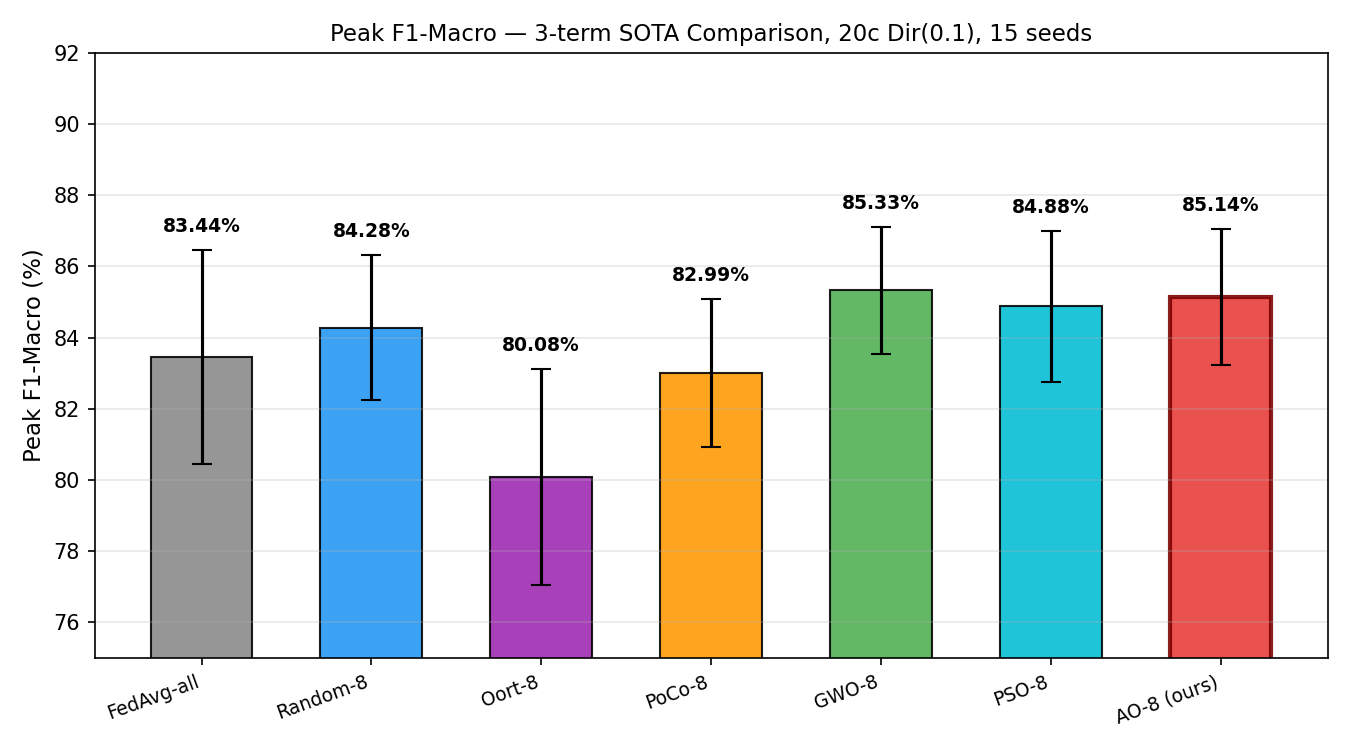
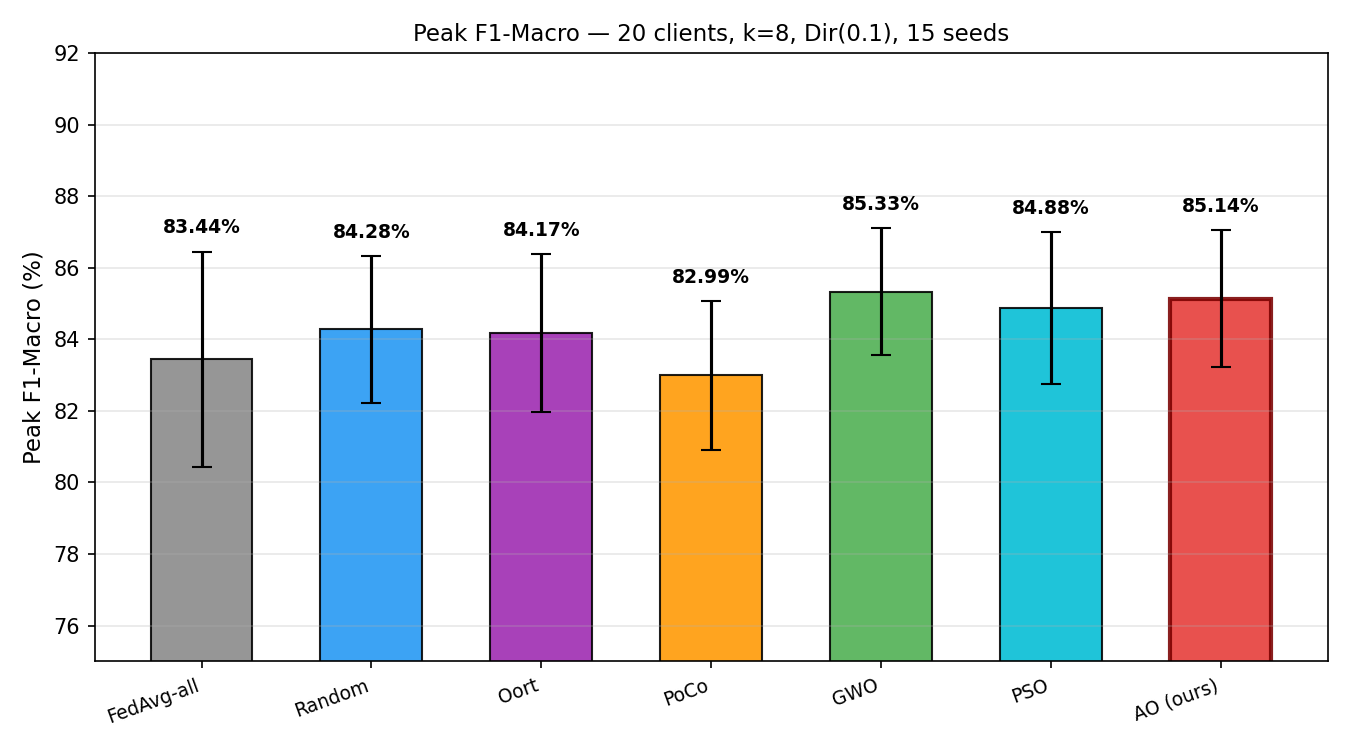
Address reviewer gap-claim, fix figure/text inconsistencies (pre-submission)
Related work & gap claim (§II):
- Add FedCSGA, FedGenBlk (GA-based, per-client additive fitness) to §II-C and Table I
- Add DPP/Zhang et al. ICASSP 2023 (collective set-function, no metaheuristic) to §II-B and Table I
- Rename Table I columns: Scoring Level→Fitness Type, SI Optimizer→Metaheuristic
- Rewrite §II-D gap claim: prior metaheuristic methods use additive per-client F(S);
  prior collective methods lack metaheuristic search; we are first to combine both
- Soften 'equivalent to greedy top-k' → 'in the unconstrained setting studied here'
- Name all three FedGenBlk terms (accuracy, gradient deviation, blockchain credibility)
- Add bib entries: wu2025fedcsga, panimalar2026fedgenblk, zhang2023dpp

Text inconsistencies fixed:
- Table III: PSO→GWO as smallest gap, 10.41→10.34pp, range 10.4→10.3
- §III-B: Section V-G → Section V-F (ablation cross-reference)
- §V-A: GWO k-sensitivity reconciliation (15-seed vs independent 5-seed set)
- §V-F: add sentence connecting Greedy-8 collapse to collective fitness argument
- Contributions: k∈{4,...,12} → k∈{6,...,12} (k=4 has 1 failure in sweep)
- Remove orphaned Dwork 2006 bib entry

Figure regenerated:
- bar_peak_f1.png: Oort 80.08%→84.17% (from oort_proper/), PoCo 82.99%
  using correct authoritative results directories per method

diff --git a/regen_bar_peak_f1.py b/regen_bar_peak_f1.py
@@ -1,0 +1,103 @@
+"""
+Regenerate bar_peak_f1.png for the paper using authoritative results directories.
+
+Method → directory mapping:
+  FedAvg-all, Random  → results/sota_comparison/
+  Oort                → results/oort_proper/
+  PoCo                → results/poco_proper/
+  GWO, PSO, AO        → results/sota_3term/
+
+Output: paper/figures/bar_peak_f1.png  (overwrites stale version)
+"""
+
+import os, csv, shutil
+import numpy as np
+import matplotlib
+matplotlib.use('Agg')
+import matplotlib.pyplot as plt
+
+BASE = r'C:\Users\Dspike\Documents\FL-AdroidMaLD'
+SEEDS = [1, 2, 3, 4, 5, 6, 7, 8, 9, 10, 42, 123, 456, 789, 2024]
+
+# (method_key, results_subdir, csv_prefix)
+METHOD_CONF = [
+    ('fedavg_all', 'sota_comparison/fedavg_all', 'fedavg_all'),
+    ('random8',    'sota_comparison/random8',    'random8'),
+    ('oort8',      'oort_proper',                'oort8'),
+    ('poco8',      'sota_comparison/poco8',       'poco8'),
+    ('gwo8',       'sota_3term/gwo8',            'gwo8'),
+    ('pso8',       'sota_3term/pso8',            'pso8'),
+    ('aoa8',       'sota_3term/aoa8',            'aoa8'),
+]
+
+LABELS = {
+    'fedavg_all': 'FedAvg-all', 'random8': 'Random',
+    'oort8': 'Oort',            'poco8': 'PoCo',
+    'gwo8': 'GWO',              'pso8': 'PSO',
+    'aoa8': 'AO (ours)',
+}
+COLORS = {
+    'fedavg_all': '#888888', 'random8': '#2196F3', 'oort8': '#9C27B0',
+    'poco8': '#FF9800',      'gwo8': '#4CAF50',    'pso8': '#00BCD4',
+    'aoa8': '#E53935',
+}
+
+
+def load_peak_f1(results_subdir, csv_prefix, seeds):
+    bests = []
+    for s in seeds:
+        p = os.path.join(BASE, 'results', results_subdir,
+                         f'seed{s}', f'{csv_prefix}_seed{s}_rounds.csv')
+        if not os.path.exists(p):
+            print(f'  [missing] {p}')
+            continue
+        with open(p) as f:
+            vals = [float(r['f1_macro']) for r in csv.DictReader(f)]
+        bests.append(max(vals) * 100)
+    return np.array(bests)
+
+
+print('Loading per-method peak F1 ...')
+f1_data = {}
+for key, subdir, prefix in METHOD_CONF:
+    arr = load_peak_f1(subdir, prefix, SEEDS)
+    f1_data[key] = arr
+    n = len(arr)
+    print(f'  {key:<12}  n={n}  mean={arr.mean():.2f}%  std={arr.std():.2f}%')
+
+# ── Bar chart ─────────────────────────────────────────────────────────────────
+methods = [k for k, _, _ in METHOD_CONF]
+fig, ax = plt.subplots(figsize=(9, 5))
+
+for i, key in enumerate(methods):
+    f1 = f1_data[key]
+    if len(f1) == 0:
+        continue
+    edge = 'black' if key != 'aoa8' else '#7a0000'
+    lw   = 1       if key != 'aoa8' else 2
+    ax.bar(i, f1.mean(), yerr=f1.std(), color=COLORS[key], capsize=5,
+           width=0.6, label=LABELS[key], alpha=0.88, edgecolor=edge, linewidth=lw)
+    ax.text(i, f1.mean() + f1.std() + 0.4,
+            f'{f1.mean():.2f}%', ha='center', va='bottom',
+            fontsize=9, fontweight='bold')
+
+ax.set_xticks(range(len(methods)))
+ax.set_xticklabels([LABELS[k] for k in methods], fontsize=9, rotation=20, ha='right')
+ax.set_ylabel('Peak F1-Macro (%)', fontsize=11)
+ax.set_title('Peak F1-Macro — 20 clients, k=8, Dir(0.1), 15 seeds', fontsize=11)
+ax.set_ylim(75, 92)
+ax.grid(True, axis='y', alpha=0.3)
+plt.tight_layout()
+
+# Save to plots/sota_3term/ and copy to paper/figures/
+out_dir = os.path.join(BASE, 'plots', 'sota_3term')
+os.makedirs(out_dir, exist_ok=True)
+out_plot = os.path.join(out_dir, 'bar_peak_f1.png')
+plt.savefig(out_plot, dpi=150)
+plt.close()
+print(f'\nSaved: {out_plot}')
+
+fig_dst = os.path.join(BASE, 'paper', 'figures', 'bar_peak_f1.png')
+shutil.copy2(out_plot, fig_dst)
+print(f'Copied to: {fig_dst}')
+print('\nDone — recompile main.tex to pick up the updated figure.')

diff --git a/paper/main.tex b/paper/main.tex
@@ -50,7 +50,7 @@ Our contributions are:
 \setlength{\itemsep}{0pt}\setlength{\parskip}{0pt}
 \item A subset-level combinatorial fitness function capturing collective divergence, class coverage, and pairwise diversity, achieving zero convergence failures across 15 seeds; ablation suggests divergence as the likely primary contributing term (non-significant at $n=15$).
 \item Validation across three metaheuristic instantiations (AO, GWO, PSO) of the identical fitness function, isolating the formulation rather than the optimizer as the source of improvement.
-\item Statistically significant convergence improvements over Oort and PoCo across 15 seeds (paired Wilcoxon, $p<0.05$); AO's zero-failure reliability is sustained across $k\in\{4,\dots,12\}$, with significant improvement over Oort at $k=12$ ($p=0.031$).
+\item Statistically significant convergence improvements over Oort and PoCo across 15 seeds (paired Wilcoxon, $p<0.05$); AO's zero-failure reliability is sustained across $k\in\{6,\dots,12\}$, with significant improvement over Oort at $k=12$ ($p=0.031$).
 \end{itemize}
 \vspace{-4pt}
 
@@ -62,13 +62,13 @@ Android malware detection has been studied through static, dynamic, and hybrid a
 Fang et al.\ \cite{fang2023fedriod} proposed FEDroid, integrating genetic-algorithm-based malware variant augmentation with a residual-network classifier under FL \cite{mcmahan2017}, reporting 98.53\% weighted F1 in cross-dataset evaluation. However, FEDroid assumes IID client data (noted as a limitation by the authors) and treats detection as binary classification with only 3--7 clients. The present work instead evaluates under severe Dir(0.1) non-IID partitioning across 20 clients with 12 distinct malware families.
 
 \subsection{Client Selection in Federated Learning}
-Several methods address the client-selection problem in FL \cite{li2024survey}. Oort \cite{lai2021oort} combines statistical and system utility into a per-client scalar score. Power-of-Choice \cite{cho2022poco} biases selection toward higher-loss clients sampled from a candidate pool. Both are per-client scoring approaches. DivFL \cite{balakrishnan2022divfl} instead selects diverse client subsets via submodular maximization, targeting collective subset properties rather than individual utility. FedDiverse \cite{nemeth2025feddiverse} similarly selects subsets with complementary heterogeneity profiles; clients share a compact three-scalar heterogeneity triplet (class-imbalance, attribute-imbalance, and spurious-correlation scores), and it has been validated on computer-vision benchmarks only. FedCor \cite{tang2022fedcor} models inter-client loss correlations via a Gaussian Process, while FAVOR \cite{wang2020favor} trains a deep Q-network to counteract non-IID skew.
+Several methods address the client-selection problem in FL \cite{li2024survey}. Oort \cite{lai2021oort} combines statistical and system utility into a per-client scalar score. Power-of-Choice \cite{cho2022poco} biases selection toward higher-loss clients sampled from a candidate pool. Both are per-client scoring approaches. DivFL \cite{balakrishnan2022divfl} instead selects diverse client subsets via submodular maximization, targeting collective subset properties rather than individual utility. FedDiverse \cite{nemeth2025feddiverse} similarly selects subsets with complementary heterogeneity profiles; clients share a compact three-scalar heterogeneity triplet (class-imbalance, attribute-imbalance, and spurious-correlation scores), and it has been validated on computer-vision benchmarks only. FedCor \cite{tang2022fedcor} models inter-client loss correlations via a Gaussian Process, while FAVOR \cite{wang2020favor} trains a deep Q-network to counteract non-IID skew. Zhang et al.\ \cite{zhang2023dpp} apply determinantal point process (DPP) sampling to FL client selection, choosing subsets with probability proportional to $\det(L_S)$, a collective set-function that implicitly penalizes redundant clients; this approach targets computer-vision benchmarks and does not employ metaheuristic search.
 
 \subsection{Metaheuristic Optimization in Federated Learning}
-Metaheuristic algorithms have been applied to FL primarily for hyperparameter and model-weight optimization rather than client selection. Qolomany et al.\ \cite{qolomany2020psofl} applied PSO to optimize local-model hyperparameters in an FL setting for smart-city and IoT services. More recently, Yamany et al.\ \cite{yamany2024gwofl} proposed GWOFL, employing Grey Wolf Optimization to generate personalized initial local models for each client, thereby improving robustness against data-poisoning adversarial attacks under non-IID conditions. Critically, both works apply swarm-intelligence optimization \emph{within} the local training or aggregation pipeline, not to the problem of \emph{which clients to select} each round. Two more recent works do target the client-selection step with SI: Khan and Goodridge \cite{khan2024swarm} evaluate nine SI algorithms for FL client selection in cybersecurity scenarios, while Ben Driss et al.\ \cite{bendriss2024gwo} apply GWO to multi-attribute client selection in over-the-air (OTA) FL, balancing accuracy, energy, delay, and fairness. However, both score \emph{individual} clients on a weighted utility function and select the top-$k$, an architecture equivalent to Oort that does not model collective subset properties such as class-distribution coverage or inter-client diversity.
+Metaheuristic algorithms have been applied to FL primarily for hyperparameter and model-weight optimization rather than client selection. Qolomany et al.\ \cite{qolomany2020psofl} applied PSO to optimize local-model hyperparameters in an FL setting for smart-city and IoT services. More recently, Yamany et al.\ \cite{yamany2024gwofl} proposed GWOFL, employing Grey Wolf Optimization to generate personalized initial local models for each client, thereby improving robustness against data-poisoning adversarial attacks under non-IID conditions. Critically, both works apply swarm-intelligence optimization \emph{within} the local training or aggregation pipeline, not to the problem of \emph{which clients to select} each round. Two more recent works do target the client-selection step with SI: Khan and Goodridge \cite{khan2024swarm} evaluate nine SI algorithms for FL client selection in cybersecurity scenarios, while Ben Driss et al.\ \cite{bendriss2024gwo} apply GWO to multi-attribute client selection in over-the-air (OTA) FL, balancing accuracy, energy, delay, and fairness. However, both score \emph{individual} clients on a weighted utility function and select the top-$k$, an architecture equivalent to Oort that does not model collective subset properties such as class-distribution coverage or inter-client diversity. FedCSGA \cite{wu2025fedcsga} and FedGenBlk \cite{panimalar2026fedgenblk} apply GAs to client selection but optimize objectives that decompose additively across clients---a deadline-constrained accuracy sum for FedCSGA, and a per-client composite of accuracy, gradient deviation, and blockchain-verified credibility for FedGenBlk---and therefore capture no inter-client statistical structure such as class coverage or pairwise distribution distances.
 
 \subsection{Research Gap}
-As Table~\ref{tab:relwork} shows, existing methods either score clients individually (Oort, PoCo, Khan \& Goodridge, Ben Driss et al.)\ or perform subset-level selection without a swarm-intelligence solver (DivFL, FedDiverse); statistical significance testing is absent throughout. This work addresses both gaps by coupling combinatorial subset selection with a metaheuristic optimizer and evaluating on a fine-grained, non-IID Android malware classification task.
+As Table~\ref{tab:relwork} shows, prior metaheuristic client-selection methods---Khan \& Goodridge, Ben Driss et al., FedCSGA, and FedGenBlk---optimize \emph{additive per-client} fitness functions $F(S)=\sum_{i\in S}f(i)$, evaluated independently per client; such functions offer no structural advantage over greedy top-$k$ in the unconstrained setting studied here, and do not capture collective subset properties such as class-distribution coverage or inter-client diversity. Prior collective subset-selection methods---DivFL, DPP, and FedDiverse---use set-functions capturing inter-client interactions but do not employ metaheuristic search and have not been evaluated on malware classification. This work is the first to couple a collective subset fitness---explicitly including the irreducibly set-level class-coverage term $\text{cov}(S)$ and pairwise distribution distances $\text{div}_{pair}(S)$---with metaheuristic search on a 12-class malware task, evaluated across 15 independent seeds with rigorous statistical testing.
 
 \begin{table}[t]
 \centering
@@ -78,14 +78,16 @@ As Table~\ref{tab:relwork} shows, existing methods either score clients individu
 \setlength{\tabcolsep}{2.5pt}
 \begin{tabular}{lcccc c}
 \toprule
-Method & \makecell{Scoring\\Level} & \makecell{SI\\Optimizer} & Domain & \makecell{Real\\Data} & \makecell{Statistical\\Testing} \\
+Method & \makecell{Fitness\\Type} & \makecell{Meta-\\heuristic} & Domain & \makecell{Real\\Data} & \makecell{Stat.\\Testing} \\
 \midrule
-Oort \cite{lai2021oort}, PoCo \cite{cho2022poco} & Per-client & \texttimes & Vision/NLP    & \checkmark & \texttimes \\
-DivFL \cite{balakrishnan2022divfl}               & Subset     & \texttimes & Vision/NLP    & \checkmark & \texttimes \\
-Khan \& Goodridge \cite{khan2024swarm}           & Per-client & \checkmark & Security      & \texttimes & \texttimes \\
-Ben Driss \emph{et al.} \cite{bendriss2024gwo}  & Per-client & \checkmark & Wireless      & \checkmark & \texttimes \\
-FedDiverse \cite{nemeth2025feddiverse}           & Subset     & \texttimes & Vision        & \checkmark & \texttimes \\
-\textbf{Ours}                                    & \textbf{Subset} & \checkmark & \textbf{Malware} & \checkmark & \checkmark \\
+Oort \cite{lai2021oort}, PoCo \cite{cho2022poco}            & Per-client  & \texttimes & Vision/NLP    & \checkmark & \texttimes \\
+DivFL \cite{balakrishnan2022divfl}                           & Collective  & \texttimes & Vision/NLP    & \checkmark & \texttimes \\
+DPP \cite{zhang2023dpp}                                      & Collective  & \texttimes & Vision        & \checkmark & \texttimes \\
+FedDiverse \cite{nemeth2025feddiverse}                       & Collective  & \texttimes & Vision        & \checkmark & \texttimes \\
+Khan \& Goodridge \cite{khan2024swarm}                       & Per-client  & \checkmark & Security      & \texttimes & \texttimes \\
+Ben Driss \emph{et al.} \cite{bendriss2024gwo}              & Per-client  & \checkmark & Wireless      & \checkmark & \texttimes \\
+\makecell[l]{FedCSGA \cite{wu2025fedcsga},\\FedGenBlk \cite{panimalar2026fedgenblk}} & Per-client & \checkmark & Cloud/IoT & \checkmark & \texttimes \\
+\textbf{Ours}                                                & \textbf{Collective} & \checkmark & \textbf{Malware} & \checkmark & \checkmark \\
 \bottomrule
 \end{tabular}
 \end{table}
@@ -109,7 +111,7 @@ where the three terms are defined as follows. Let $w_i^{(t-1)}$ denote client $i
 \text{cov}(S) &= \frac{1}{C}\left|\bigcup_{i \in S} \mathcal{C}_i\right|, \quad \mathcal{C}_i = \{c : p_{i,c} > 0\} \\
 \text{div}_{pair}(S) &= \frac{2}{|S|(|S|-1)}\sum_{\substack{i,j \in S \\ i < j}} \|\mathbf{p}_i - \mathbf{p}_j\|_1
 \end{align*}
-where $C=12$ is the number of classes, $\mathcal{C}_i$ is the set of classes present in client $i$'s local data, $p_{i,c}$ is client $i$'s fraction of samples from class $c$, and $\mathbf{p}_i \in \mathbb{R}^C$ is client $i$'s class-proportion vector. $\text{div}(S)$ rewards subsets that collectively diverge from the global model, ensuring informative updates; $\text{cov}(S)$ rewards subsets that collectively cover all $C$ malware classes; $\text{div}_{pair}(S)$ rewards subsets whose members have dissimilar local class distributions, discouraging redundant clients. Prior to computing $F(S)$, $\text{div}(S)$ and $\text{cov}(S)$ are independently min-max normalized to $[0,1]$ across all $n$ clients. We use $\alpha=0.3$, $\beta=0.3$, and $\lambda=0.2$ (note: $\text{div}_{pair}(S)\in[0,2]$ while the other terms are in $[0,1]$, so the effective contribution of $\lambda$ can reach $0.4$); these values were fixed prior to the comparative evaluation reported in Section~V. Section~V-G presents an ablation study suggesting that the divergence term is the primary contributor to performance. The cov$(S)$ and div$_{pair}(S)$ terms use per-client class-proportion vectors $\mathbf{p}_i$ transmitted alongside model updates.
+where $C=12$ is the number of classes, $\mathcal{C}_i$ is the set of classes present in client $i$'s local data, $p_{i,c}$ is client $i$'s fraction of samples from class $c$, and $\mathbf{p}_i \in \mathbb{R}^C$ is client $i$'s class-proportion vector. $\text{div}(S)$ rewards subsets that collectively diverge from the global model, ensuring informative updates; $\text{cov}(S)$ rewards subsets that collectively cover all $C$ malware classes; $\text{div}_{pair}(S)$ rewards subsets whose members have dissimilar local class distributions, discouraging redundant clients. Prior to computing $F(S)$, $\text{div}(S)$ and $\text{cov}(S)$ are independently min-max normalized to $[0,1]$ across all $n$ clients. We use $\alpha=0.3$, $\beta=0.3$, and $\lambda=0.2$ (note: $\text{div}_{pair}(S)\in[0,2]$ while the other terms are in $[0,1]$, so the effective contribution of $\lambda$ can reach $0.4$); these values were fixed prior to the comparative evaluation reported in Section~V. Section~V-F presents an ablation study suggesting that the divergence term is the primary contributor to performance. The cov$(S)$ and div$_{pair}(S)$ terms use per-client class-proportion vectors $\mathbf{p}_i$ transmitted alongside model updates.
 
 \subsection{Metaheuristic Search}
 Given the intractability of exhaustive subset enumeration, $\arg\max_S F(S)$ is solved via population-based metaheuristic search. Each candidate solution is encoded as a binary vector of length $n$ indicating subset membership, with a top-$k$ binarization operator ensuring exactly $k$ clients are selected. To assess whether performance is attributable to the fitness function or to a specific optimizer, the search is instantiated with three structurally distinct optimizers, all operating on the \emph{identical} fitness function:
@@ -187,7 +189,7 @@ PSO & 84.88\% & \textbf{36.1} & 1/15 & 0.484 & 0.358 & 0.010 \\
 \end{tabular}
 \end{table}
 
-AO significantly outperforms Oort ($p=0.0014$, $d=0.77$), PoCo ($p=0.046$, $d=0.44$), DivFL ($p=0.0005$, $d=0.85$), FedAvg-all ($p=0.015$), Random ($p=0.020$), and Greedy-8 ($p=0.0071$, $d=0.63$), with zero convergence failures (0/15) against Oort's 3/15, PoCo's 3/15, DivFL's 9/15, and Greedy-8's 6/15. Greedy-8 selects the top-$k$ clients by the same composite linear score but omits the pairwise diversity term ($\lambda{=}0$) and uses no metaheuristic search; its 6/15 failure rate and 80.90\% peak F1 confirm that metaheuristic optimization over the non-linear fitness landscape provides substantial benefit beyond greedy top-$k$ selection. No significant difference is observed against GWO ($p=0.127$) or PSO ($p=0.484$); GWO records a marginally higher peak F1 (85.33\% vs.\ 85.14\%) and PSO converges slightly faster (36.1 vs.\ 36.8 rounds), both non-significant. AO is designated the primary instantiation as it uniquely achieves zero convergence failures at every tested $k\in\{6,8,10,12\}$ in the k-sensitivity sweep; GWO matches AO at $k=8$ (0/15 failures) but produces isolated failures at other $k$ values (Table~\ref{tab:ksens}). As a solution-quality check on the search procedure (not a direct F1 guarantee, since $F(S)$ is a proxy for training outcome), exhaustive enumeration of all candidate subsets (evaluating $F(S)$ on pre-computed per-client statistics, requiring no additional training) confirms that AO recovers $99.98\%$ of the true optimal fitness value on average across 30 selection rounds (mean gap $0.016\%$, max $0.45\%$), while greedy top-$k$ leaves a $1.60\%$ fitness gap relative to the exhaustive optimum; enumeration is tractable at $n=20$ but grows combinatorially (e.g., $\binom{100}{40}\approx10^{28}$), making the metaheuristic the deployable component for larger fleets. \begin{figure}[t]
+AO significantly outperforms Oort ($p=0.0014$, $d=0.77$), PoCo ($p=0.046$, $d=0.44$), DivFL ($p=0.0005$, $d=0.85$), FedAvg-all ($p=0.015$), Random ($p=0.020$), and Greedy-8 ($p=0.0071$, $d=0.63$), with zero convergence failures (0/15) against Oort's 3/15, PoCo's 3/15, DivFL's 9/15, and Greedy-8's 6/15. Greedy-8 selects the top-$k$ clients by the same composite linear score but omits the pairwise diversity term ($\lambda{=}0$) and uses no metaheuristic search; its 6/15 failure rate and 80.90\% peak F1 confirm that metaheuristic optimization over the non-linear fitness landscape provides substantial benefit beyond greedy top-$k$ selection. No significant difference is observed against GWO ($p=0.127$) or PSO ($p=0.484$); GWO records a marginally higher peak F1 (85.33\% vs.\ 85.14\%) and PSO converges slightly faster (36.1 vs.\ 36.8 rounds), both non-significant. AO is designated the primary instantiation as it achieves zero convergence failures across $k\in\{6,8,10,12\}$ in the k-sensitivity sweep; GWO matches AO in the 15-seed main run (0/15, Table~\ref{tab:sota}) but shows isolated failures in the independent 5-seed k-sensitivity sweep at $k=8$ (1/5) and $k=12$ (1/5) (Table~\ref{tab:ksens}), which uses a different seed set and is therefore not in conflict. As a solution-quality check on the search procedure (not a direct F1 guarantee, since $F(S)$ is a proxy for training outcome), exhaustive enumeration of all candidate subsets (evaluating $F(S)$ on pre-computed per-client statistics, requiring no additional training) confirms that AO recovers $99.98\%$ of the true optimal fitness value on average across 30 selection rounds (mean gap $0.016\%$, max $0.45\%$), while greedy top-$k$ leaves a $1.60\%$ fitness gap relative to the exhaustive optimum; enumeration is tractable at $n=20$ but grows combinatorially (e.g., $\binom{100}{40}\approx10^{28}$), making the metaheuristic the deployable component for larger fleets. \begin{figure}[t]
 \centering
 \includegraphics[width=\columnwidth]{figures/bar_peak_f1.png}
 \caption{Peak F1-macro (mean $\pm$ std, 15 seeds) for each method.}
@@ -209,7 +211,7 @@ In Fig.~\ref{fig:convergence}, Oort trails the remaining six trajectory-plotted 
 \caption{Accuracy (left) vs.\ F1-macro (right) across rounds (7 methods, 15 seeds).}
 \label{fig:accf1}
 \end{figure}
-Accuracy masks the performance differences that F1-macro reveals. As shown in Fig.~\ref{fig:accf1}, all seven trajectory-plotted methods converge into an indistinguishable accuracy band (90--95\%), while F1-macro exposes clear separation, most strikingly for Oort. Table~\ref{tab:accf1gap} quantifies this masking effect using \emph{final-round} performance (in contrast to the peak values reported in Table~\ref{tab:sota}): every method exhibits a 10.4--13.8 percentage-point gap between accuracy and F1-macro at convergence, with Oort recording the largest gap (13.84 pp) and PSO the smallest (10.41 pp).
+Accuracy masks the performance differences that F1-macro reveals. As shown in Fig.~\ref{fig:accf1}, all seven trajectory-plotted methods converge into an indistinguishable accuracy band (90--95\%), while F1-macro exposes clear separation, most strikingly for Oort. Table~\ref{tab:accf1gap} quantifies this masking effect using \emph{final-round} performance (in contrast to the peak values reported in Table~\ref{tab:sota}): every method exhibits a 10.3--13.8 percentage-point gap between accuracy and F1-macro at convergence, with Oort recording the largest gap (13.84 pp) and GWO the smallest (10.34 pp).
 
 \begin{table}[t]
 \centering
@@ -301,7 +303,7 @@ No div$_{pair}$\;[$\lambda{=}0$] & 85.14\% & 36.2 & 1/15 & 0.462 & 0.150 & 0.024
 \end{tabular}
 \end{table}
 
-Removal of divergence ($\alpha{=}0$) produces the largest degradation: $-1.82\%$ F1 and three additional convergence failures, medium effect ($r=0.475$, $d=0.253$), though non-significant at $n=15$. Removal of coverage ($\beta{=}0$) approaches significance ($p=0.051$, $r=0.558$). Removal of pairwise diversity ($\lambda{=}0$) yields no measurable change ($p=0.462$, $d=0.024$): at this effect size, 80\% power would require several thousand seeds. Geometrically, $\text{cov}(S)$ captures binary class presence while $\text{div}_{pair}(S)$ additionally penalizes similar class-proportion vectors, making them complementary with no measurable F1 penalty when retained. The ablation indicates divergence as the primary driver, coverage as secondary regularization, and pairwise diversity as a theoretically motivated geometric complement below the $n=15$ detection threshold.
+Removal of divergence ($\alpha{=}0$) produces the largest degradation: $-1.82\%$ F1 and three additional convergence failures, medium effect ($r=0.475$, $d=0.253$), though non-significant at $n=15$. Removal of coverage ($\beta{=}0$) approaches significance ($p=0.051$, $r=0.558$). Removal of pairwise diversity ($\lambda{=}0$) yields no measurable change ($p=0.462$, $d=0.024$): at this effect size, 80\% power would require several thousand seeds. Geometrically, $\text{cov}(S)$ captures binary class presence while $\text{div}_{pair}(S)$ additionally penalizes similar class-proportion vectors, making them complementary with no measurable F1 penalty when retained. The ablation indicates divergence as the primary driver, coverage as secondary regularization, and pairwise diversity as a theoretically motivated geometric complement below the $n=15$ detection threshold. Although $\text{div}(S)$ is itself additive, its interaction with the set-level $\text{cov}(S)$---evaluated via the set union $\bigcup_{i\in S}\mathcal{C}_i$ and therefore irreducibly collective---under subset-level metaheuristic search is what per-client ranking cannot replicate: Greedy-8, which optimizes the same per-client divergence and coverage signals without subset-level evaluation, collapses to 80.90\% with 6/15 failures (Table~\ref{tab:sota}).
 
 
 \section{Conclusion}
@@ -368,9 +370,6 @@ M. Ben Driss, E. Sabir, H. Elbiaze, A.~B. Diallo, and M. Sadik, ``A green multi-
 \bibitem{li2024survey}
 J. Li, T. Chen, and S. Teng, ``A comprehensive survey on client selection strategies in federated learning,'' \emph{Comput. Netw.}, vol. 251, p. 110663, 2024.
 
-\bibitem{dwork2006calibrating}
-C. Dwork, F. McSherry, K. Nissim, and A. Smith, ``Calibrating noise to sensitivity in private data analysis,'' in \emph{Proc. 3rd Theory Cryptography Conf. (TCC)}, New York, NY, USA, 2006, pp. 265--284.
-
 \bibitem{zhao2018noniid}
 Y. Zhao, M. Li, L. Lai, N. Suda, D. Civin, and V. Chandra, ``Federated learning with non-IID data,'' \emph{arXiv preprint} arXiv:1806.00582, 2018.
 
@@ -379,6 +378,15 @@ T.-Y. Hsu, H. Qi, and M. Brown, ``Measuring the effects of non-identical data di
 
 \bibitem{nemeth2025feddiverse}
 G. D. N\'{e}meth, E. Fan\`{i}, Y. J. Ng, B. Caputo, M. \'{A}. Lozano, N. Oliver, and N. Quadrianto, ``FedDiverse: Tackling data heterogeneity in federated learning with diversity-driven client selection,'' in \emph{Proc. 3rd IEEE Int. Conf. Federated Learning Technol. Appl. (FLTA)}, 2025.
+
+\bibitem{wu2025fedcsga}
+J. Wu, H. Ji, J. Yi, and L. Liu, ``Optimizing client selection in federated learning based on genetic algorithm,'' \emph{Cluster Comput.}, vol. 28, p. 400, 2025.
+
+\bibitem{panimalar2026fedgenblk}
+S. P. Panimalar and S. Gunasundari, ``Robust federated learning for cloud environments using evolutionary optimization and blockchain,'' \emph{Sci. Rep.}, vol. 16, p. 4202, 2026.
+
+\bibitem{zhang2023dpp}
+Y. Zhang, C. Xu, H. H. Yang, X. Wang, and T. Q. S. Quek, ``Determinantal point process-based client selection for federated learning with non-IID data,'' in \emph{Proc. IEEE Int. Conf. Acoust., Speech Signal Process. (ICASSP)}, Rhodes Island, Greece, 2023.
 
 \end{thebibliography}
 